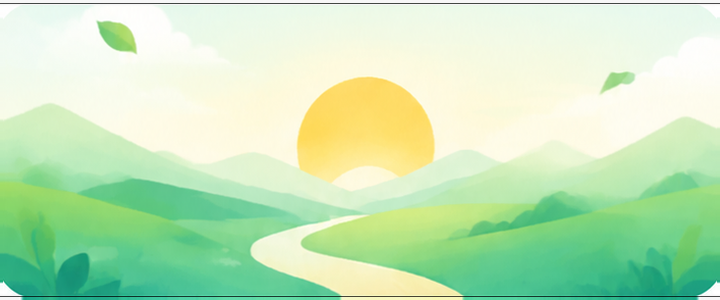
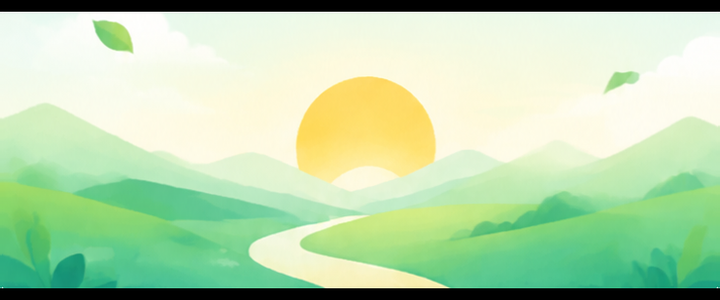
style(首页): 插画铺满到卡片边缘（background-origin:border-box）、去掉白边内高光与描边、遮罩改对角渐变；插画重切消除源图深色描边；缓存升 xb12

diff --git a/index.html b/index.html
@@ -2059,6 +2059,30 @@ html[data-mode="dark"]:root .v2-progress .v2-quote{color:#F2F7F3!important;-webk
 
 
 
+
+/* 完成卡背景铺满到边（不留 padding 白边），去掉白色内高光与深色描边 */
+html:root .v2-progress{
+  background-origin:border-box!important;
+  background-clip:border-box!important;
+  border:0!important;
+  box-shadow:0 10px 26px rgba(37,42,39,.12)!important;
+  padding:18px 20px 16px!important;
+}
+html:root .v2-progress::after{display:none!important;content:none!important}
+/* 遮罩更柔和：只在文字区压白，右侧完全透出画面 */
+html:root .v2-progress{
+  background-image:
+    linear-gradient(105deg,rgba(255,255,255,.88) 0%,rgba(255,255,255,.62) 34%,rgba(255,255,255,.18) 58%,rgba(255,255,255,0) 76%),
+    var(--hero-art,url(hero-1.png))!important;
+}
+html[data-mode="dark"]:root .v2-progress,
+@media(prefers-color-scheme:dark){html[data-mode="auto"]:root .v2-progress{
+  background-image:
+    linear-gradient(105deg,rgba(12,18,15,.78) 0%,rgba(12,18,15,.52) 36%,rgba(12,18,15,.16) 62%,rgba(12,18,15,0) 80%),
+    var(--hero-art,url(hero-1.png))!important;
+}}
+
+
 /* ==== XIAOBU CSS START ==== */
 /* ═══════════════════════════════════════════════
    小步 · AI 助手
@@ -7563,11 +7587,13 @@ window.addEventListener('load',()=>{if(sbConfig&&window.supabase&&!sb)loadSbConf
 try{
   if('serviceWorker' in navigator&&location.protocol!=='file:'){
     window.addEventListener('load',()=>{
-      navigator.serviceWorker.register('sw.js?v=20261126-xb11').then(reg=>{if(reg.update)reg.update().catch(()=>{})}).catch(()=>{});
+      navigator.serviceWorker.register('sw.js?v=20261126-xb12').then(reg=>{if(reg.update)reg.update().catch(()=>{})}).catch(()=>{});
     });
   }
 }catch(e){}
 </script>
+
+
 
 
 

diff --git a/sw.js b/sw.js
@@ -4,7 +4,7 @@
    ─ 其他来源（CDN / Supabase）：直接透传，失败就是失败，不拿 index.html 冒充
 */
 const PREFIX = 'xiaobu-';
-const CACHE='xiaobu-20261126-xb11';
+const CACHE='xiaobu-20261126-xb12';
 const OFFLINE_HTML = './index.html';
 
 const ASSETS = ['./', './index.html', './manifest.webmanifest', './icon.svg', './ava-96.png',
